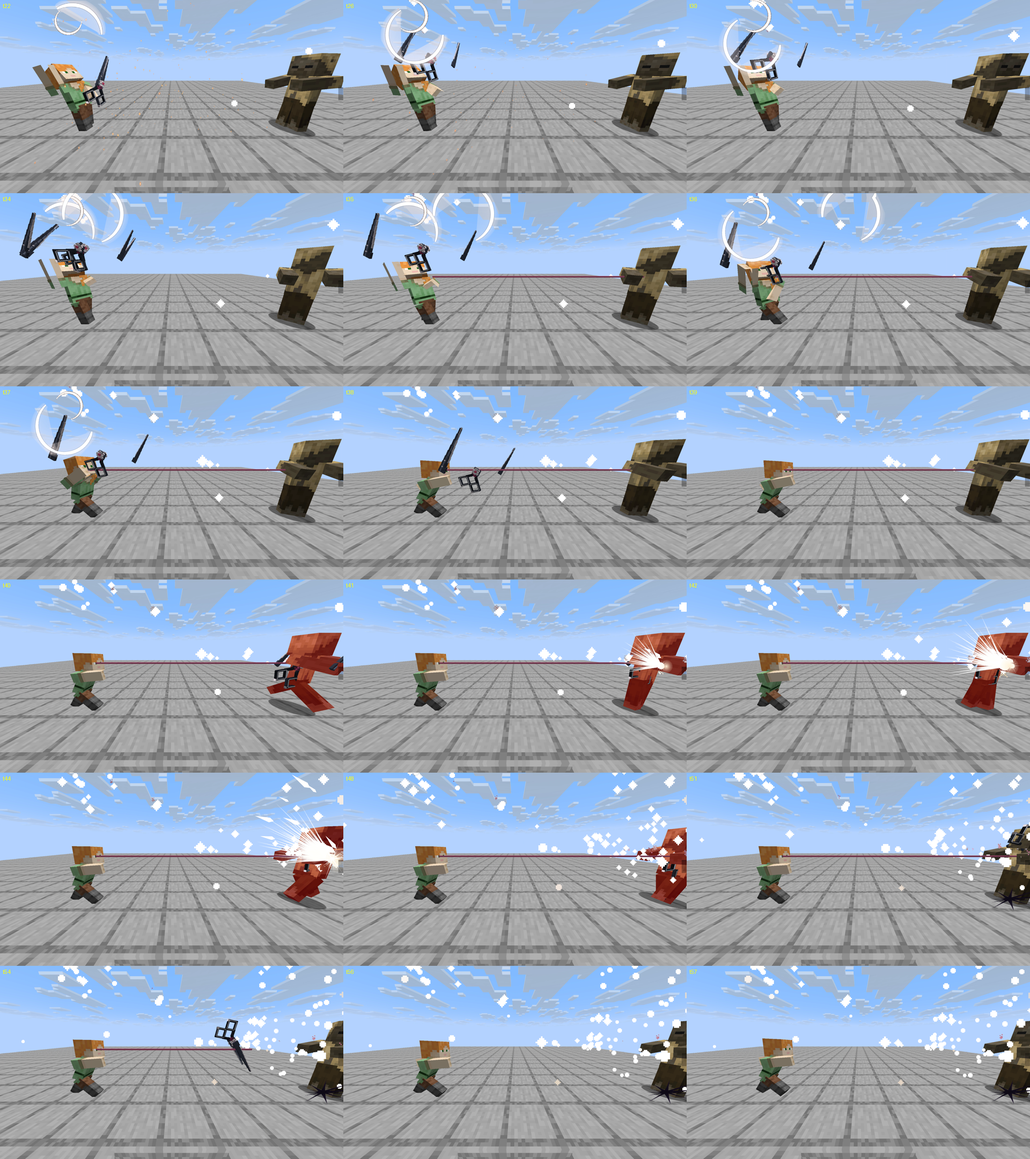
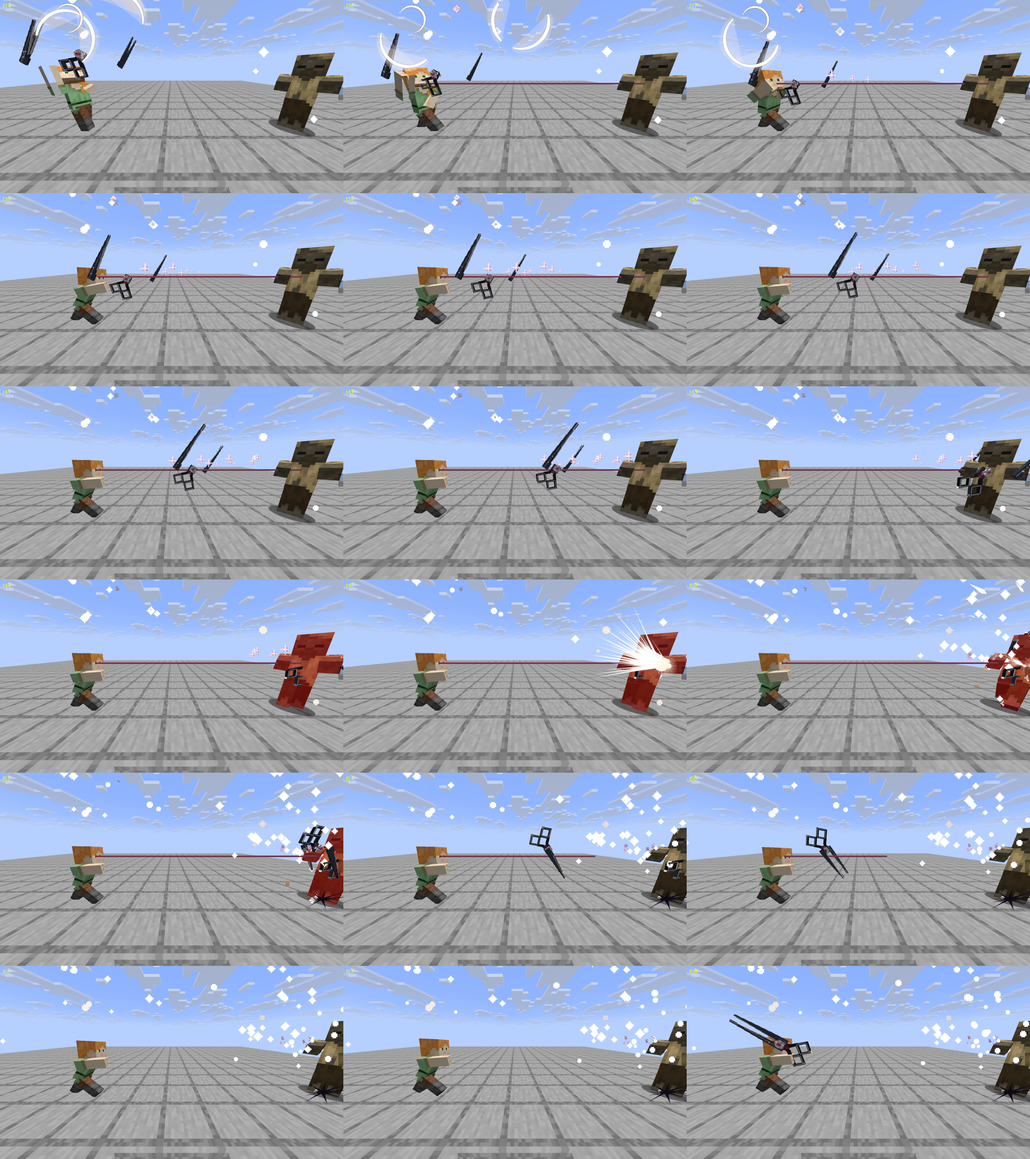
couture-s2: recapture after slower flight, round notes, learnings

diff --git a/docs/contributing/vfx-team/director.md b/docs/contributing/vfx-team/director.md
@@ -200,3 +200,4 @@ Look at edges on native crops before handing a round over: add `&zoom=native&cro
 - 2026-10-27: every item_model used by a VFX/rig must be listed in content/models/manifest.json or it renders as a giant magenta missing-model cube (blade-a/b were missing). Check this before the first capture.
 - 2026-10-27: `target_line` with `orient: yaw` drew the thread backward from the hand (top view); the same line without target_line points at the target. Use a fixed line (reference distance) until the engine bug is fixed. Projectile VFX have no lateral muzzle param: side-by-side offsets go in the flight VFX x translation.
 - 2026-10-27 couture-s2: `target_line` translate is the box CENTRE and the far end is pinned to the live target; author z = (hand + reference)/2 with scale z = reference - hand (eed14e82d). It was never backward. Thread starts the tick after the throw (for_each_target delay 35 for a t34 cast). The shared capture slots are busy with other agents: top retried 4 times before OK; check `meta.json` and reshoot.
+- 2026-10-28 (S2): end_rod lingers 20+ ticks regardless of lifetime_ticks (use electric_spark/crit for glints); a particle element with target_track is rejected at load; projectile muzzle_up is relative to the eye (1.8 puts it near y3.4); launch_speed 1.0 on a 5.4 block aim makes the flight invisible (2 ticks), 0.6 reads; open the flight frames before publishing.

diff --git a/tools/skill-compare/data/couture-rapier-s2/beat-sheet/round.md b/tools/skill-compare/data/couture-rapier-s2/beat-sheet/round.md
@@ -107,3 +107,8 @@ capture miss: capture-miss.png
 - 刺さり t40-42 (本体 -> 刃 A -> 刃 B の順に音)。引き戻し t51-56、t57 に消える。
 - 粒子 P1 (刃先の光) と P2 (刺さりの火花) は入れた。P3 (糸の縫い目) はエンジンが粒子の target_track を拒否するため未実装。頭上の白い火花 (overhead-spark) は残り続けて多すぎたため削除。
 - 残る限界: 敵の周りの白い粒 (t44-57) は既存の hit2 / burst の粒で、まだ多い。
+
+## 2026-10-28 reviewer round 1 -> fix (01036b8cd)
+- 新規レビュアー FAIL: 飛翔が見えない (t39 に物なし、t40 で敵に刺さる)。launch_speed 1.0 -> 0.6 に変更。再撮影: 飛翔 t36-43 が糸の線上に見える、刺さり t43、命中フレアのピーク t46、引き戻し t54-56、t58 で手に戻る。
+- 粒子: end_rod は長く残るため P1/P2 を electric_spark に変更。空の白い粒 (t44-58) は既存の hit2 / burst 系の end_rod で、まだ多い (未解決、particles 担当へ)。
+- 未解決: 糸が平たい赤い棒 (texture)、刃 A の左上端 t34 (animation)。
